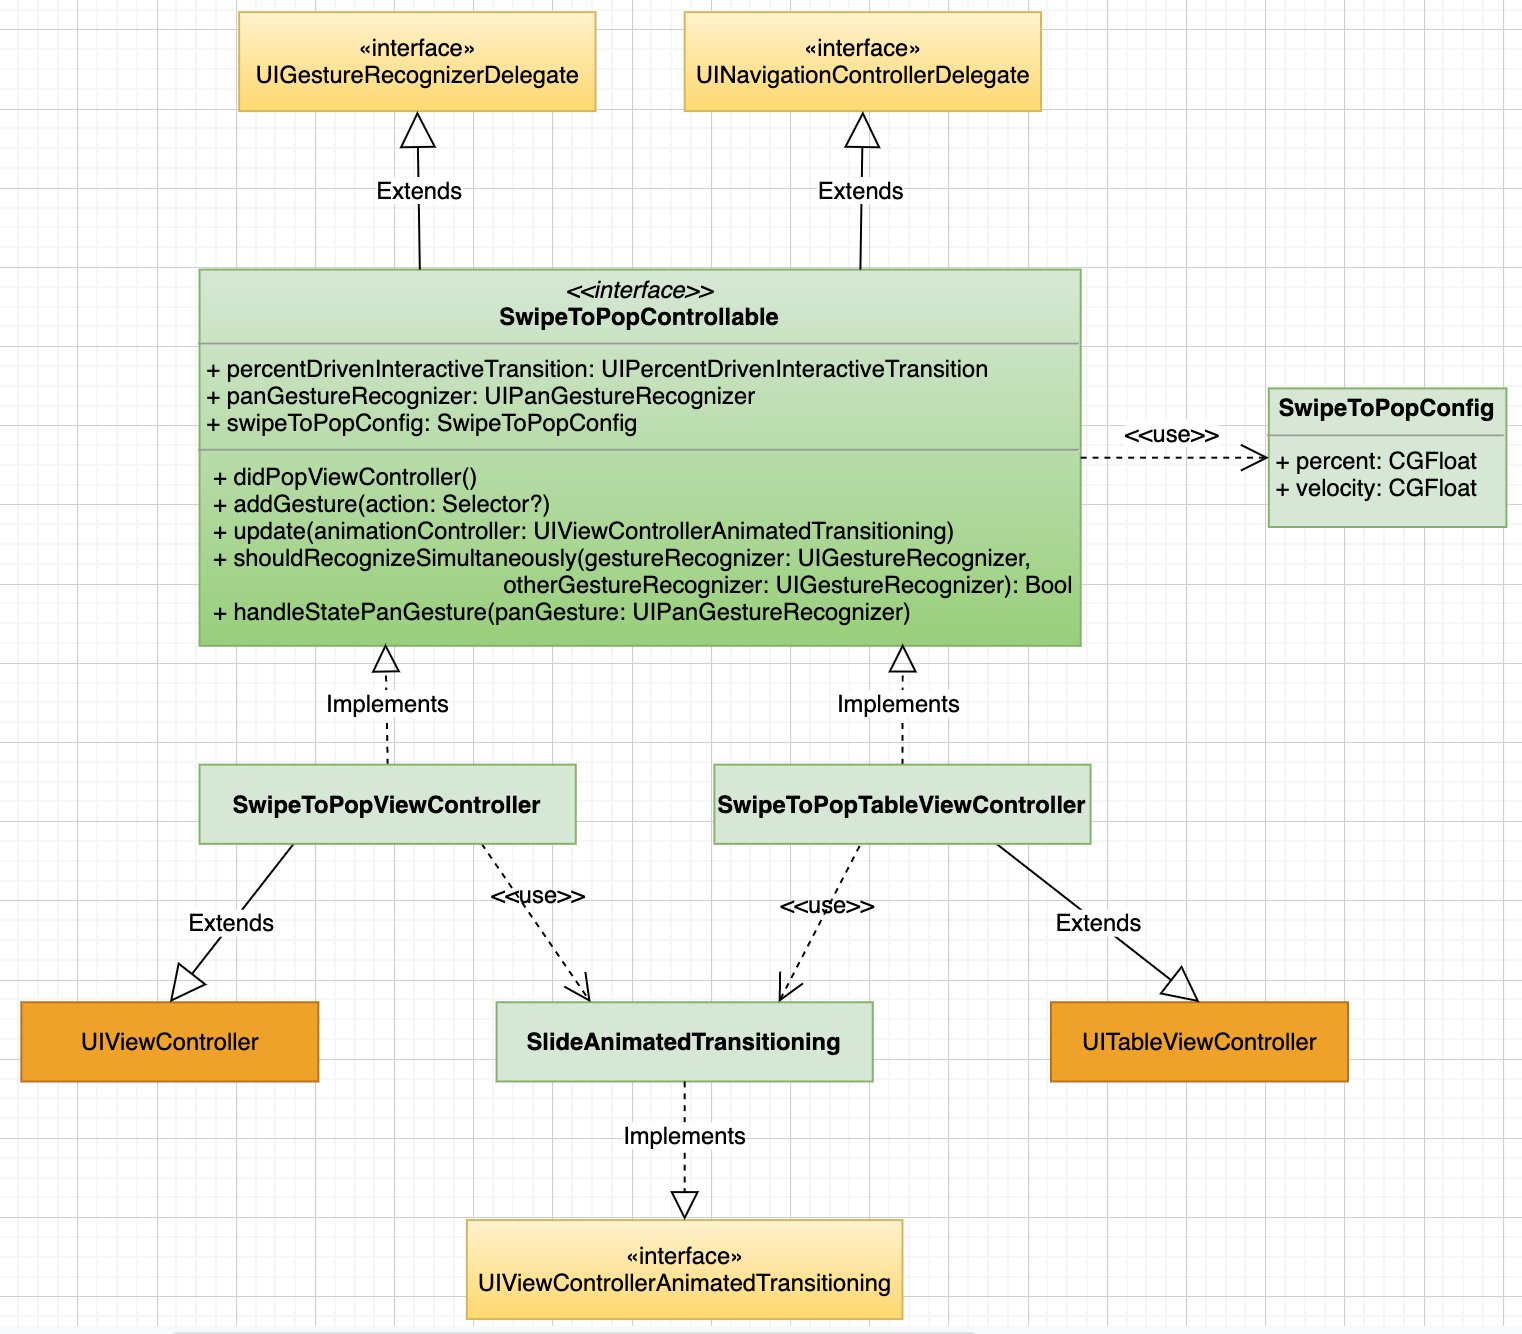
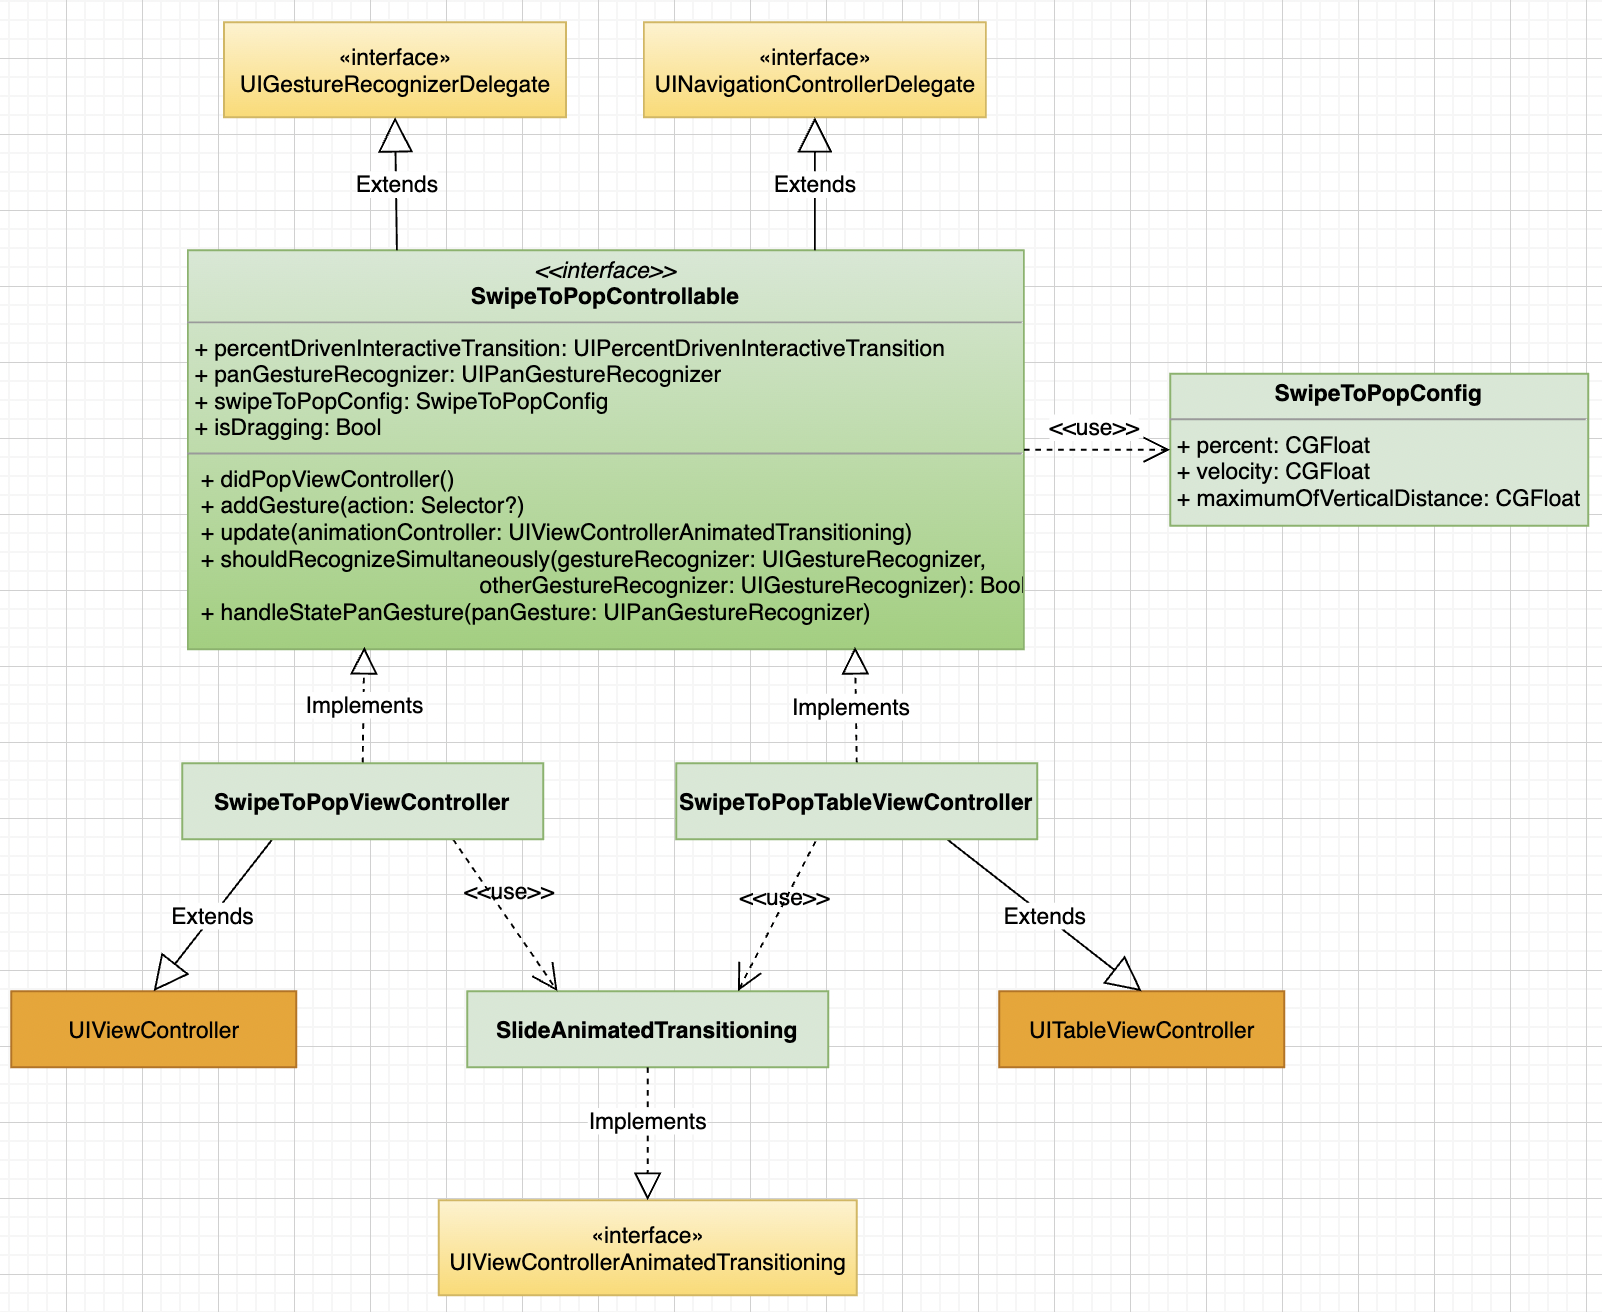
docs: update for new release v1.1.0

diff --git a/README.md b/README.md
@@ -21,7 +21,7 @@ There are three ways to install `DLSwipeToPopController`
 Just add to your project's `Podfile`:
 
 ```
-pod 'DLSwipeToPopController', '~> 1.0'
+pod 'DLSwipeToPopController', '~> 1.1'
 ```
 
 ### 2. Carthage
@@ -29,7 +29,7 @@ pod 'DLSwipeToPopController', '~> 1.0'
 Add following to `Cartfile`:
 
 ```
-github "lengocduy/DLSwipeToPopController" ~> 1.0
+github "lengocduy/DLSwipeToPopController" ~> 1.1
 ```
 
 ### 3. Swift Package Manager
@@ -45,7 +45,7 @@ let package = Package(
         name: "TestSwipeToPopController",
 
         dependencies: [
-            .package(url: "https://github.com/lengocduy/DLSwipeToPopController.git", from: "1.0.0"),
+            .package(url: "https://github.com/lengocduy/DLSwipeToPopController.git", from: "1.1.0"),
         ],
 
         targets: [
@@ -59,7 +59,7 @@ let package = Package(
 
 ## Architecture
 
-![Architecture](https://github.com/lengocduy/DLSwipeToPopController/blob/v1.0.0/ArchDiagram.png?raw=true)
+![Architecture](https://github.com/lengocduy/DLSwipeToPopController/blob/main/ArchDiagram.png?raw=true)
 
 ## License
 

diff --git a/CHANGELOG.md b/CHANGELOG.md
@@ -1,5 +1,11 @@
 # Changelog
 
+## [v1.1.0](https://github.com/lengocduy/DLSwipeToPopController/tree/v1.1.0) (2021-11-09)
+
+- Support configuration for maximum of vertical distance (coordinate y) `maximumOfVerticalDistance`
+  - Only recognize the gesture when user drag of swipe in the range of this property's value
+  - In the case vertical distance larger than the configured value. It will skip recognizing and delegate for other components in the chain
+
 ## [v1.0.0](https://github.com/lengocduy/DLSwipeToPopController/tree/v1.0.0) (2021-10-31)
 
 - Swipe from Right to Left to pop ViewController
